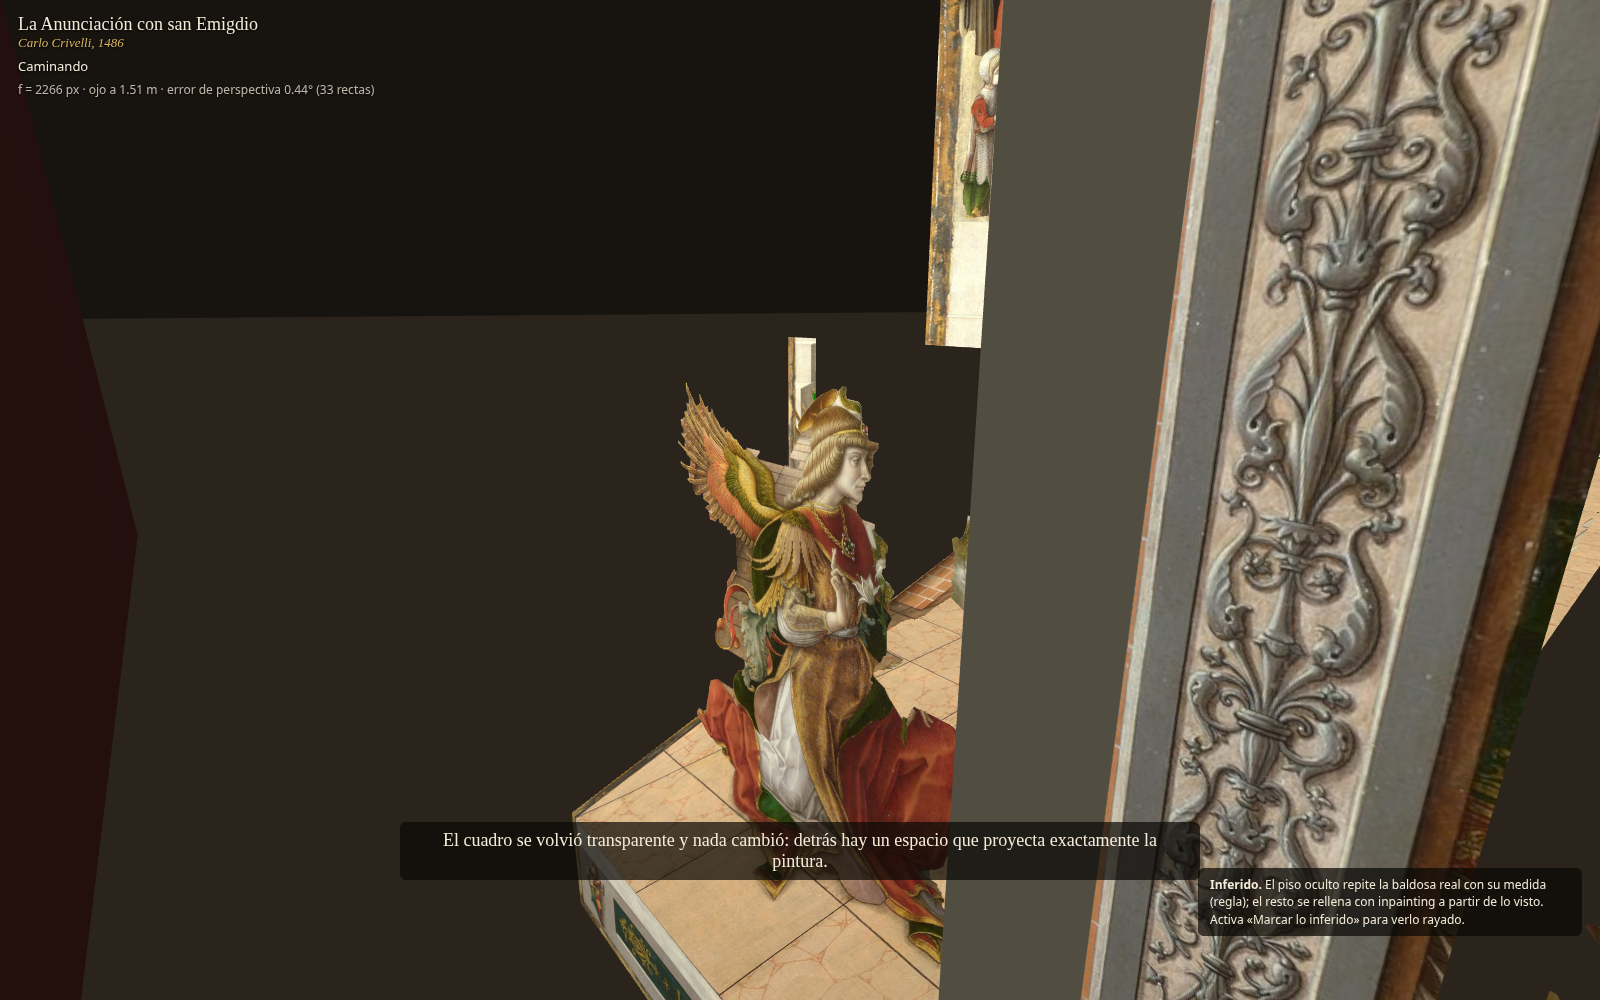
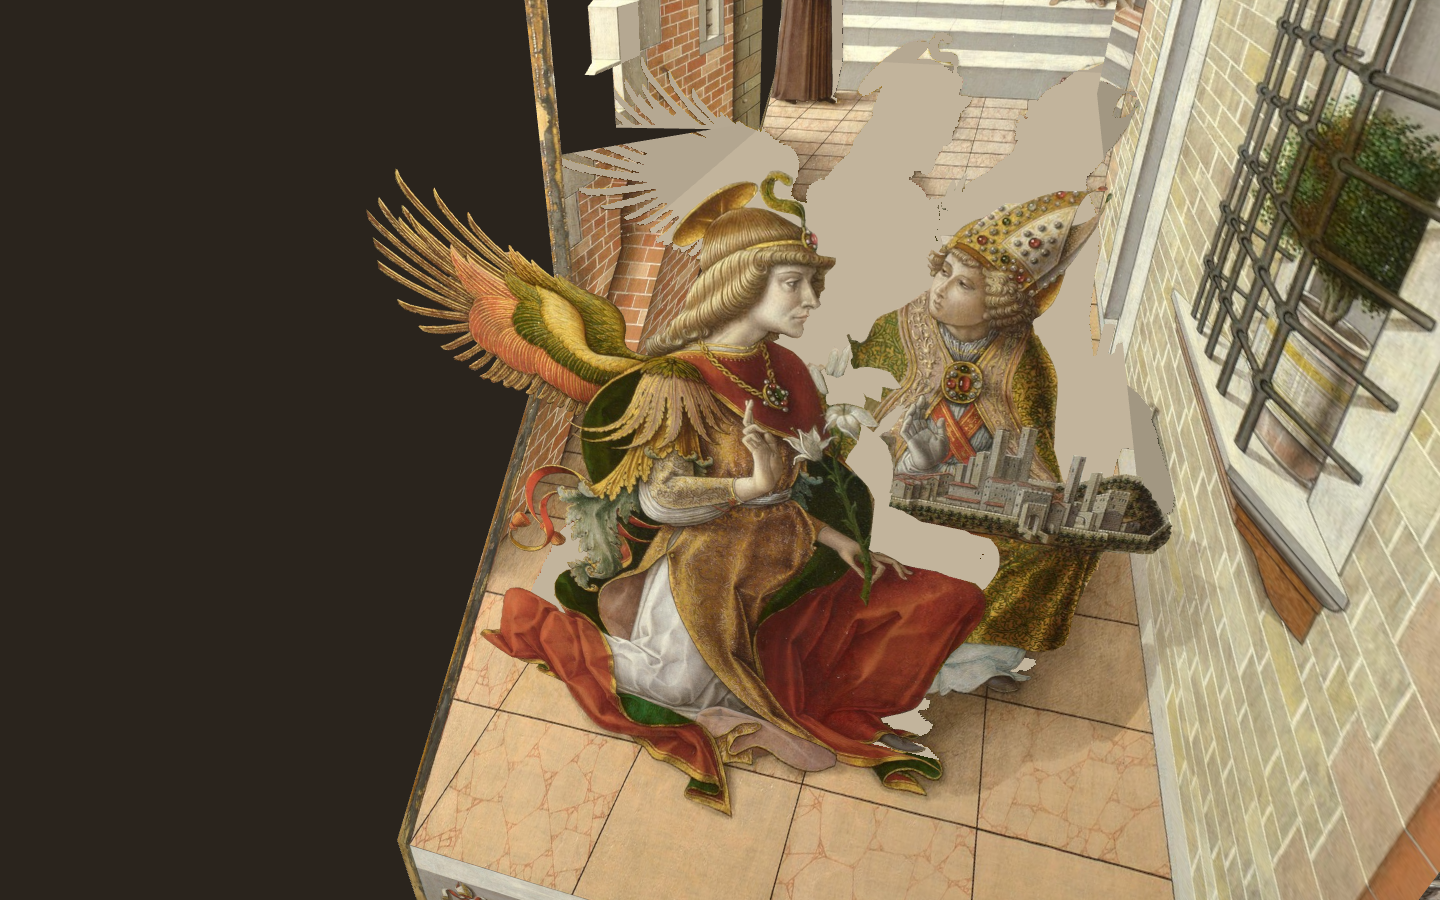
docs: describe the walkthrough and refresh viewer captures

diff --git a/README.md b/README.md
@@ -28,13 +28,14 @@ npm run dev
 | --- | --- |
 | Panel → *Volver al ojo de Crivelli* (o tecla `R`) | Anima la cámara de regreso al punto de vista del pintor |
 | *Volver al museo* | Vuelve a la sala: el cuadro es otra vez un objeto colgado |
-| *Entrar y caminar* | Primera persona: clic para mirar con el mouse, `WASD` para moverse, `Shift` para correr, `Q`/`E` para bajar o subir, `Esc` para soltar el mouse |
-| *Modo órbita* | Girar, acercar y desplazar con el mouse |
+| *Entrar y caminar* | En escritorio, haz clic para mirar con el mouse. Usa `WASD` para moverte, `Shift` para correr y `Q`/`E` para bajar o subir la vista. Pulsa `Esc` para soltar el mouse. En una pantalla táctil, arrastra para mirar y usa las flechas para avanzar o retroceder. |
+| *Avanzado → Modo órbita* | Girar, acercar y desplazar con el mouse |
 | *Modo maqueta* | Vista casi axonométrica de toda la reconstrucción |
-| *Lo que Crivelli no pintó* | Modo fiel, neutro (por defecto) o inferido; marcar lo inferido; aristas medido/supuesto |
-| *Medir* | Dos clics sobre la escena dan una distancia en metros; también hay mediciones sugeridas |
-| *Comprobar la geometría* | Superponer la pintura (con opacidad), líneas y punto de fuga en 3D, planta reconstruida |
-| *Extras* | Perspectiva aérea según Leonardo, recorrido guiado de unos 60 s, captura PNG |
+| *Avanzado → Lo que Crivelli no pintó* | Modo fiel, neutro (por defecto) o inferido; marcar lo inferido; aristas medido/supuesto |
+| *Medir* | Selecciona dos puntos para obtener una distancia en metros. Al caminar, apunta con la mira y selecciona cada punto con un clic. También hay mediciones sugeridas. |
+| *Avanzado → Comprobar la geometría* | Superponer la pintura (con opacidad), líneas y punto de fuga en 3D, planta reconstruida |
+| *Recorrido guiado* | 11 paradas en 73 s de reproducción. Usa **Pausar**, **Siguiente** o **Detener**. `Esc` también detiene el recorrido. |
+| *Avanzado → Extras* | Perspectiva aérea según Leonardo y captura PNG |
 
 ### Publicar gratis
 
@@ -63,7 +64,7 @@ Lee `scene.json` y `calibration.json`, y hornea `public/textures/*.jpg`, `public
 
 ---
 
-## Dos modos: lo pintado y lo inferido
+## Tres modos: lo pintado y lo inferido
 
 Desde el ojo de Crivelli los modos son indistinguibles: todo lo que se ve es la pintura. La diferencia aparece al entrar y mirar lo que el pintor no mostró. El panel *Lo que Crivelli no pintó* tiene tres opciones:
 
@@ -85,9 +86,7 @@ El modo inferido rellena el resto **por continuidad (inpainting)**: El resto se 
 
 La lámina `docs/07_mascaras_de_evidencia.jpg` muestra, para cada elemento, qué fracción vio el pintor (por ejemplo, del piso de la calle solo el 25 %; de la fachada de María, el 96 %).
 
-Al etiquetar la escena aparecieron dos inconsistencias, que se corrigieron:
-- **Muro derecho:** su borde lejano tapaba al hombre del manto dorado y a la maceta del puente. Se recortó donde empieza el puente.
-- **Balcón izquierdo:** las figuras del balcón quedaban detrás del propio muro. Se adelantaron 1,1 m, porque el balcón sobresale, y quedaron marcadas como supuesto.
+El borde lejano del muro derecho se recortó donde empieza el puente para dejar a la vista al hombre del manto dorado y la maceta. En el balcón izquierdo, se recortó el muro lateral y se retranqueó el fondo para conservar la oclusión de las figuras según sus siluetas.
 
 ---
 
@@ -122,7 +121,26 @@ Es la idea central de la *single view metrology* de Criminisi: cada clic es un r
 
 ### El museo y la ventana de Alberti (`src/scene/museum.js`)
 
-El cuadro de la sala no está colocado a ojo: es la ventana de Alberti calculada. Mide 146,5 cm de ancho, está a 111 cm del ojo y tiene el punto de fuga a 1,51 m de altura. Por eso el piso de la sala es el mismo plano que el piso de la calle pintada, y la base del cuadro queda a unos 56 cm del suelo. Al llegar al ojo, el cuadro se vuelve transparente sin que la imagen cambie. Desde la calle, mirando hacia atrás, se ve la sala a través del marco. En órbita y maqueta la sala se oculta para no tapar la escena.
+El cuadro de la sala no está colocado a ojo: es la ventana de Alberti calculada. Mide 146,5 cm de ancho, está a 111 cm del ojo y tiene el punto de fuga a 1,51 m de altura. Por eso el piso de la sala es el mismo plano que el piso de la calle pintada, y la base del cuadro queda a unos 56 cm del suelo. Al llegar al ojo, el cuadro se vuelve transparente sin que la imagen cambie. El anillo y la cartela señalan el punto en el piso, y una esfera indica la altura del ojo. La maqueta conserva la línea vertical auxiliar para leer esa altura respecto del suelo.
+
+Un portal de stencil restringe el dibujo de la calle al interior del marco cuando se mira desde la sala. El mapa de profundidad de la pintura se calcula por separado. Al caminar, los límites amortiguan el movimiento hacia las paredes. El marco permite cruzar en ambos sentidos una vez abierto y el paso sobre los escalones del fondo eleva al visitante hasta la plataforma. Entre el marco y el piso pintado hay un pequeño umbral de yeso marcado como `assumed`, visible desde la calle y excluido del mapa de profundidad. En órbita y maqueta se ocultan la sala y el portal.
+
+### Escalera del niño y balcón izquierdo
+
+Se adoptó la hipótesis A. La junta visible del bloque con la sillería lateral, cerca de `u = 300`, fija el frente a **7,53 m** si se aproxima por un plano frontal. El apoyo de los pies del niño, cerca de `(120, 2129)`, levanta el descanso a **2,03 m** sobre la calle. Usar un pie de escalera en `v = 2650` daría **9,38 m** de profundidad. La parte inferior queda tapada por el ala de Gabriel, así que esa alternativa depende de un contacto con el piso que no se observa.
+
+El canto visible y su sucesión de alturas guían cinco huellas y contrahuellas. El modelo supone una arista a X constante y separa el frente del parapeto de su cara lateral. La sillería conserva el plano lateral medido. El nuevo bloque, el fondo retranqueado del balcón y los anclajes de las figuras se marcan como `assumed`. Las diez siluetas manuales se conservan.
+
+| Figura | Altura en el modelo | Referencia |
+| --- | --- | --- |
+| Niño | 1,21 m | Extremos de la silueta manual, incluido el gorro |
+| Hombre de la izquierda | 1,77 m | Tocado en `v ≈ 1274` |
+| Hombre del centro | 1,58 m | Tocado en `v ≈ 1330` |
+| Hombre de la derecha | 1,65 m | Tocado en `v ≈ 1310` |
+
+Las tres estaturas adultas se calculan con el mismo plano frontal y un apoyo supuesto a **3,10 m** de altura. La pintura oculta sus pies. Estas cifras dependen del nivel elegido para el balcón y no son mediciones independientes de la pintura.
+
+![Escalera y descanso vistos en perspectiva](docs/16_escalera_con_perspectiva.png)
 
 | | |
 | --- | --- |
@@ -243,7 +261,7 @@ Por construcción, cada vértice visto desde el ojo cae sobre su píxel. **Por e
 
 Cada fragmento se proyecta con la matriz (proyección · vista) del pintor. Sus coordenadas NDC, llevadas a [0, 1], son la coordenada de textura dentro de la pintura: es la ventana de Alberti al revés.
 
-Para las zonas que el pintor nunca vio usamos la misma técnica que un *shadow map*. Primero renderizamos la profundidad de la escena desde el ojo. Si un fragmento está más lejos que lo primero que el ojo ve en esa dirección, queda oculto en la pintura y se pinta de color «yeso» neutro (con la opción *Resaltar zonas ocultas* se ve en rosa). Las caras traseras también son neutras: los cartones tienen el reverso liso.
+Desde la posición exacta del ojo el propio render resuelve qué superficie se ve primero, y todas las superficies de un mismo rayo muestrean el mismo píxel. Fuera del ojo, para las zonas que el pintor nunca vio usamos la misma técnica que un *shadow map*. Primero renderizamos la profundidad de la escena desde el ojo. Si un fragmento está más lejos que lo primero que el ojo ve en esa dirección, queda oculto en la pintura y se pinta de color «yeso» neutro (con la opción *Resaltar zonas ocultas* se ve en rosa). Las caras traseras también son neutras: los cartones tienen el reverso liso.
 
 ---
 
@@ -256,7 +274,7 @@ Para las zonas que el pintor nunca vio usamos la misma técnica que un *shadow m
 5. **Pared del fondo de la logia:** se supone 1,5 m detrás de la fachada. La pintura no da otra pista. El techo de casetones se ancla a esa pared, y la logia resulta de unos 2 m de alto.
 6. **Cuarto de María:** el techo se ancla en el borde superior de la puerta (sobre la fachada) y la pared del fondo, en la línea donde termina el techo. El cuarto resulta de ≈ 1,4 m de fondo y ≈ 2 m de alto.
 7. **Paredes laterales:** la pintura no es perfectamente coherente. El muro derecho no sigue exactamente una sola recta hacia el punto de fuga a lo largo de toda la calle, así que tomamos la base cercana, la más nítida. Por eso al caminar aparecen algunas juntas.
-8. **Lo que no se modela:** el balcón, las cornisas y los relieves quedan como planos («cartón pintado»), y la torre lejana va pintada sobre el fondo del cielo. Las figuras son cartones frontales recortados con polígonos trazados a mano.
+8. **Lo que no se modela:** las cornisas y los relieves conservan su representación plana, y la torre lejana va pintada sobre el fondo del cielo. Las figuras son cartones frontales recortados con polígonos trazados a mano.
 9. **Profundidad del fondo:** el cielo y la ciudad lejana están en un plano a 70 m. Cualquier valor grande da la misma vista desde el ojo.
 
 ---
@@ -313,8 +331,11 @@ RESENA.md                     reseña de una página (objetivo y relación con G
 | 10. Siluetas con GrabCut y editor de polígonos | 2 | ✅ |
 | 11. Herramienta de medición | 2 | ✅ |
 | 12. Museo y ventana de Alberti | 3 | ✅ |
+| 13. Portal, límites de marcha y marca del ojo | — | ✅ |
+| 14. Escalera y balcón con profundidad documentada | — | ✅ |
+| 15. Recorrido con mediciones y controles para pantallas táctiles | — | ✅ |
 
-**Mejoras posibles:** darle volumen a la arquitectura (pilastras, cornisa, balcón, escalones uno por uno) modelándola a mano, por ejemplo en Blender con la cámara calibrada; darles relieve a las figuras con un mapa de profundidad (Depth Anything V2); y controles táctiles para celular.
+**Pendientes:** cerrar el cuarto de María con caras laterales, dar grosor a pilastras y cornisas, y explorar la sensibilidad de la reconstrucción a la altura de referencia y la distancia focal.
 
 ---
 
